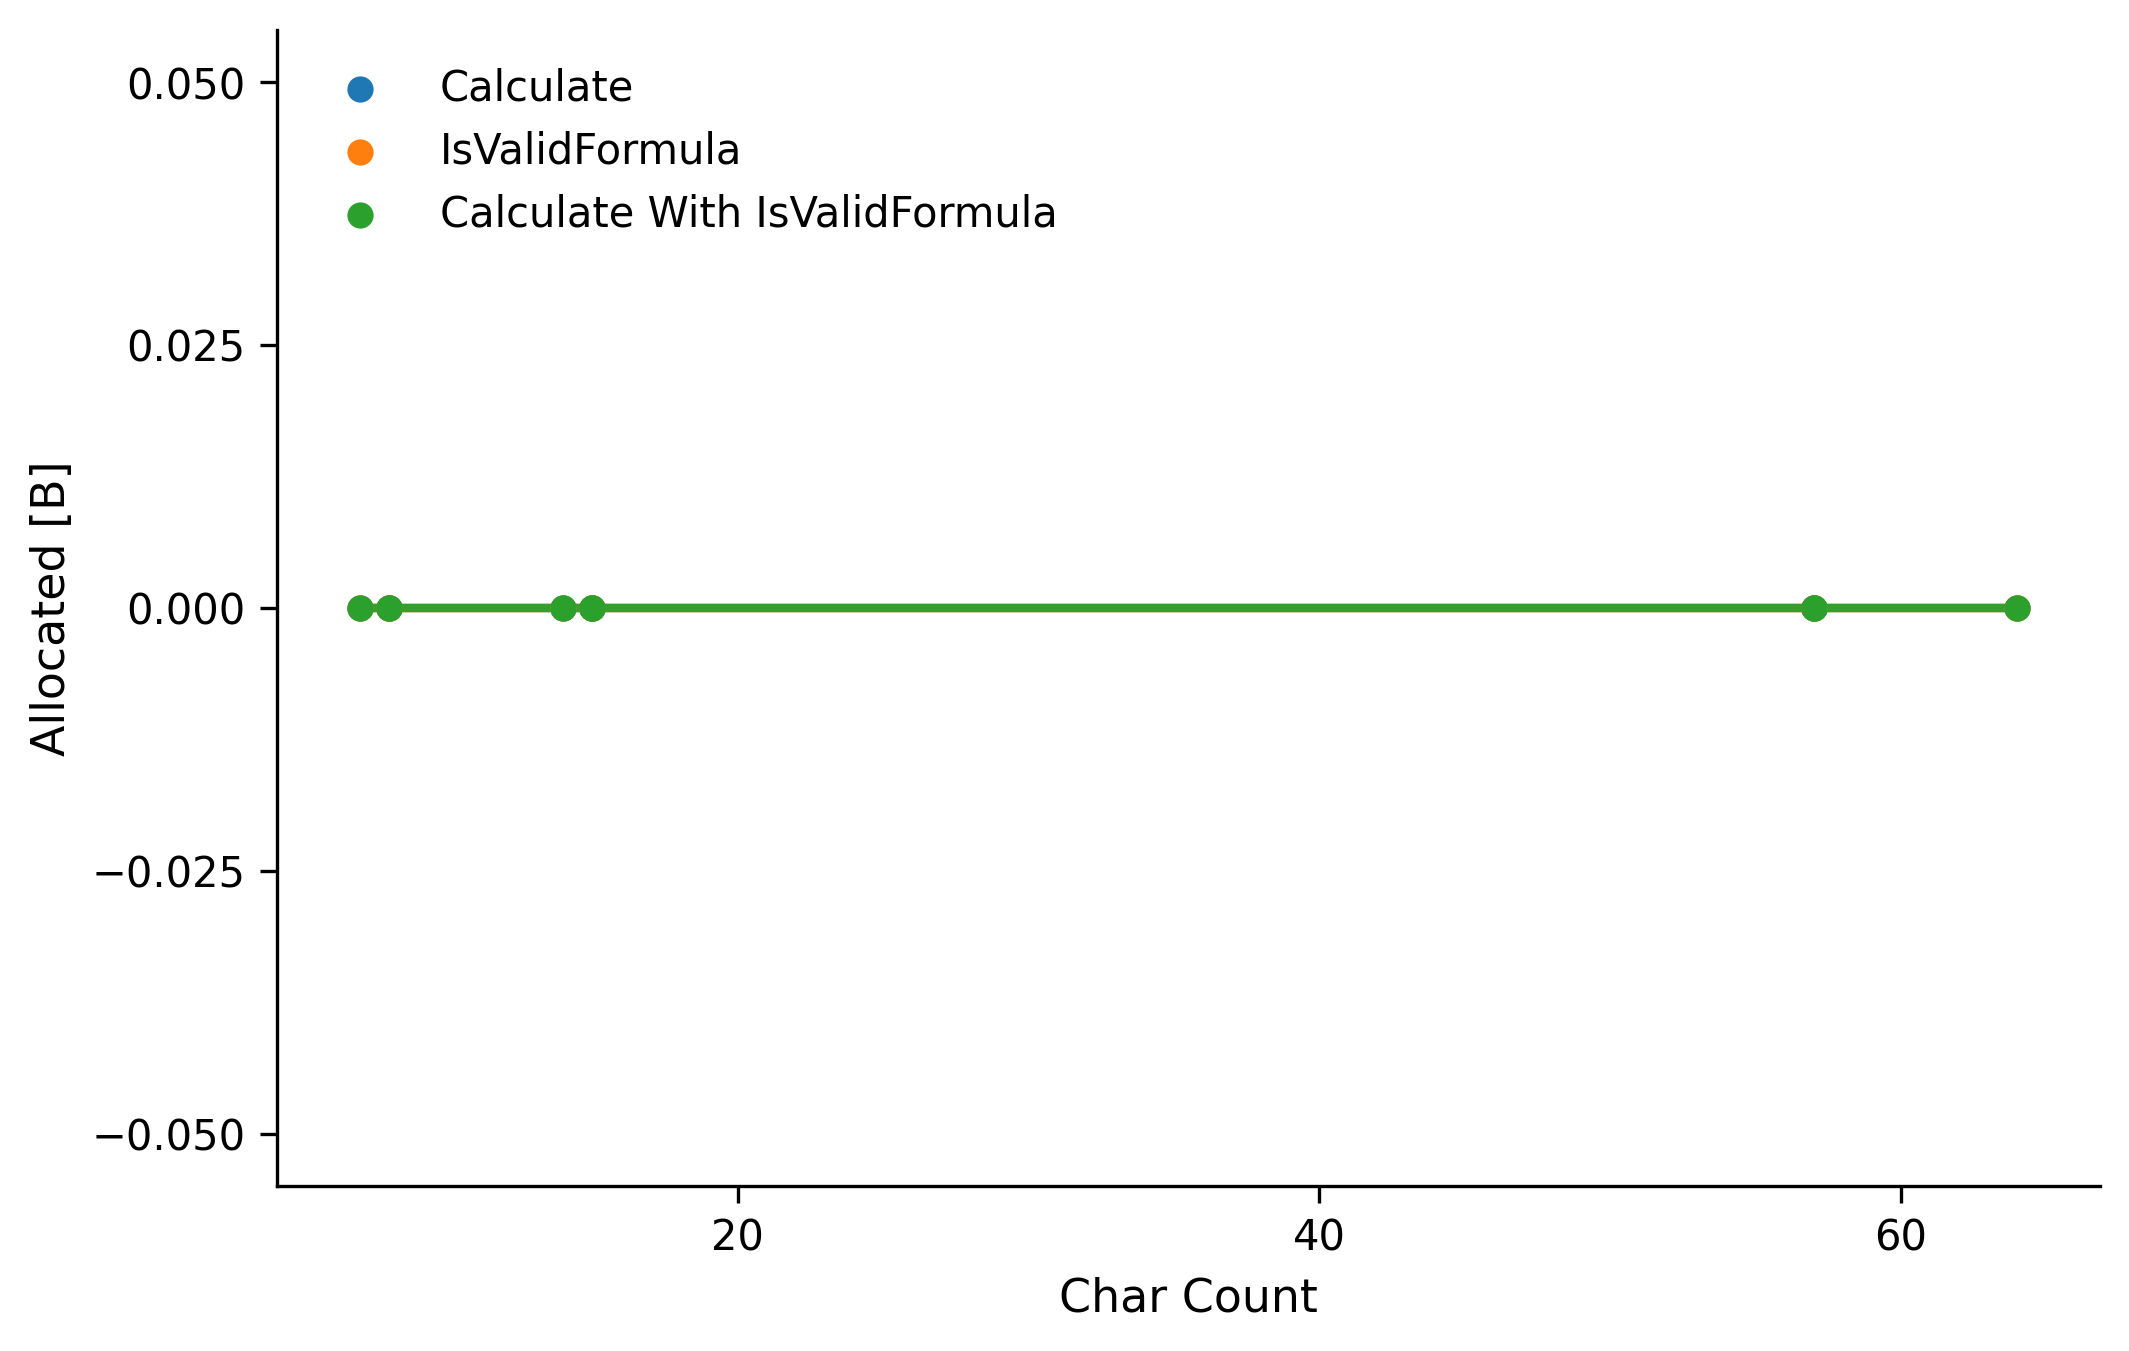
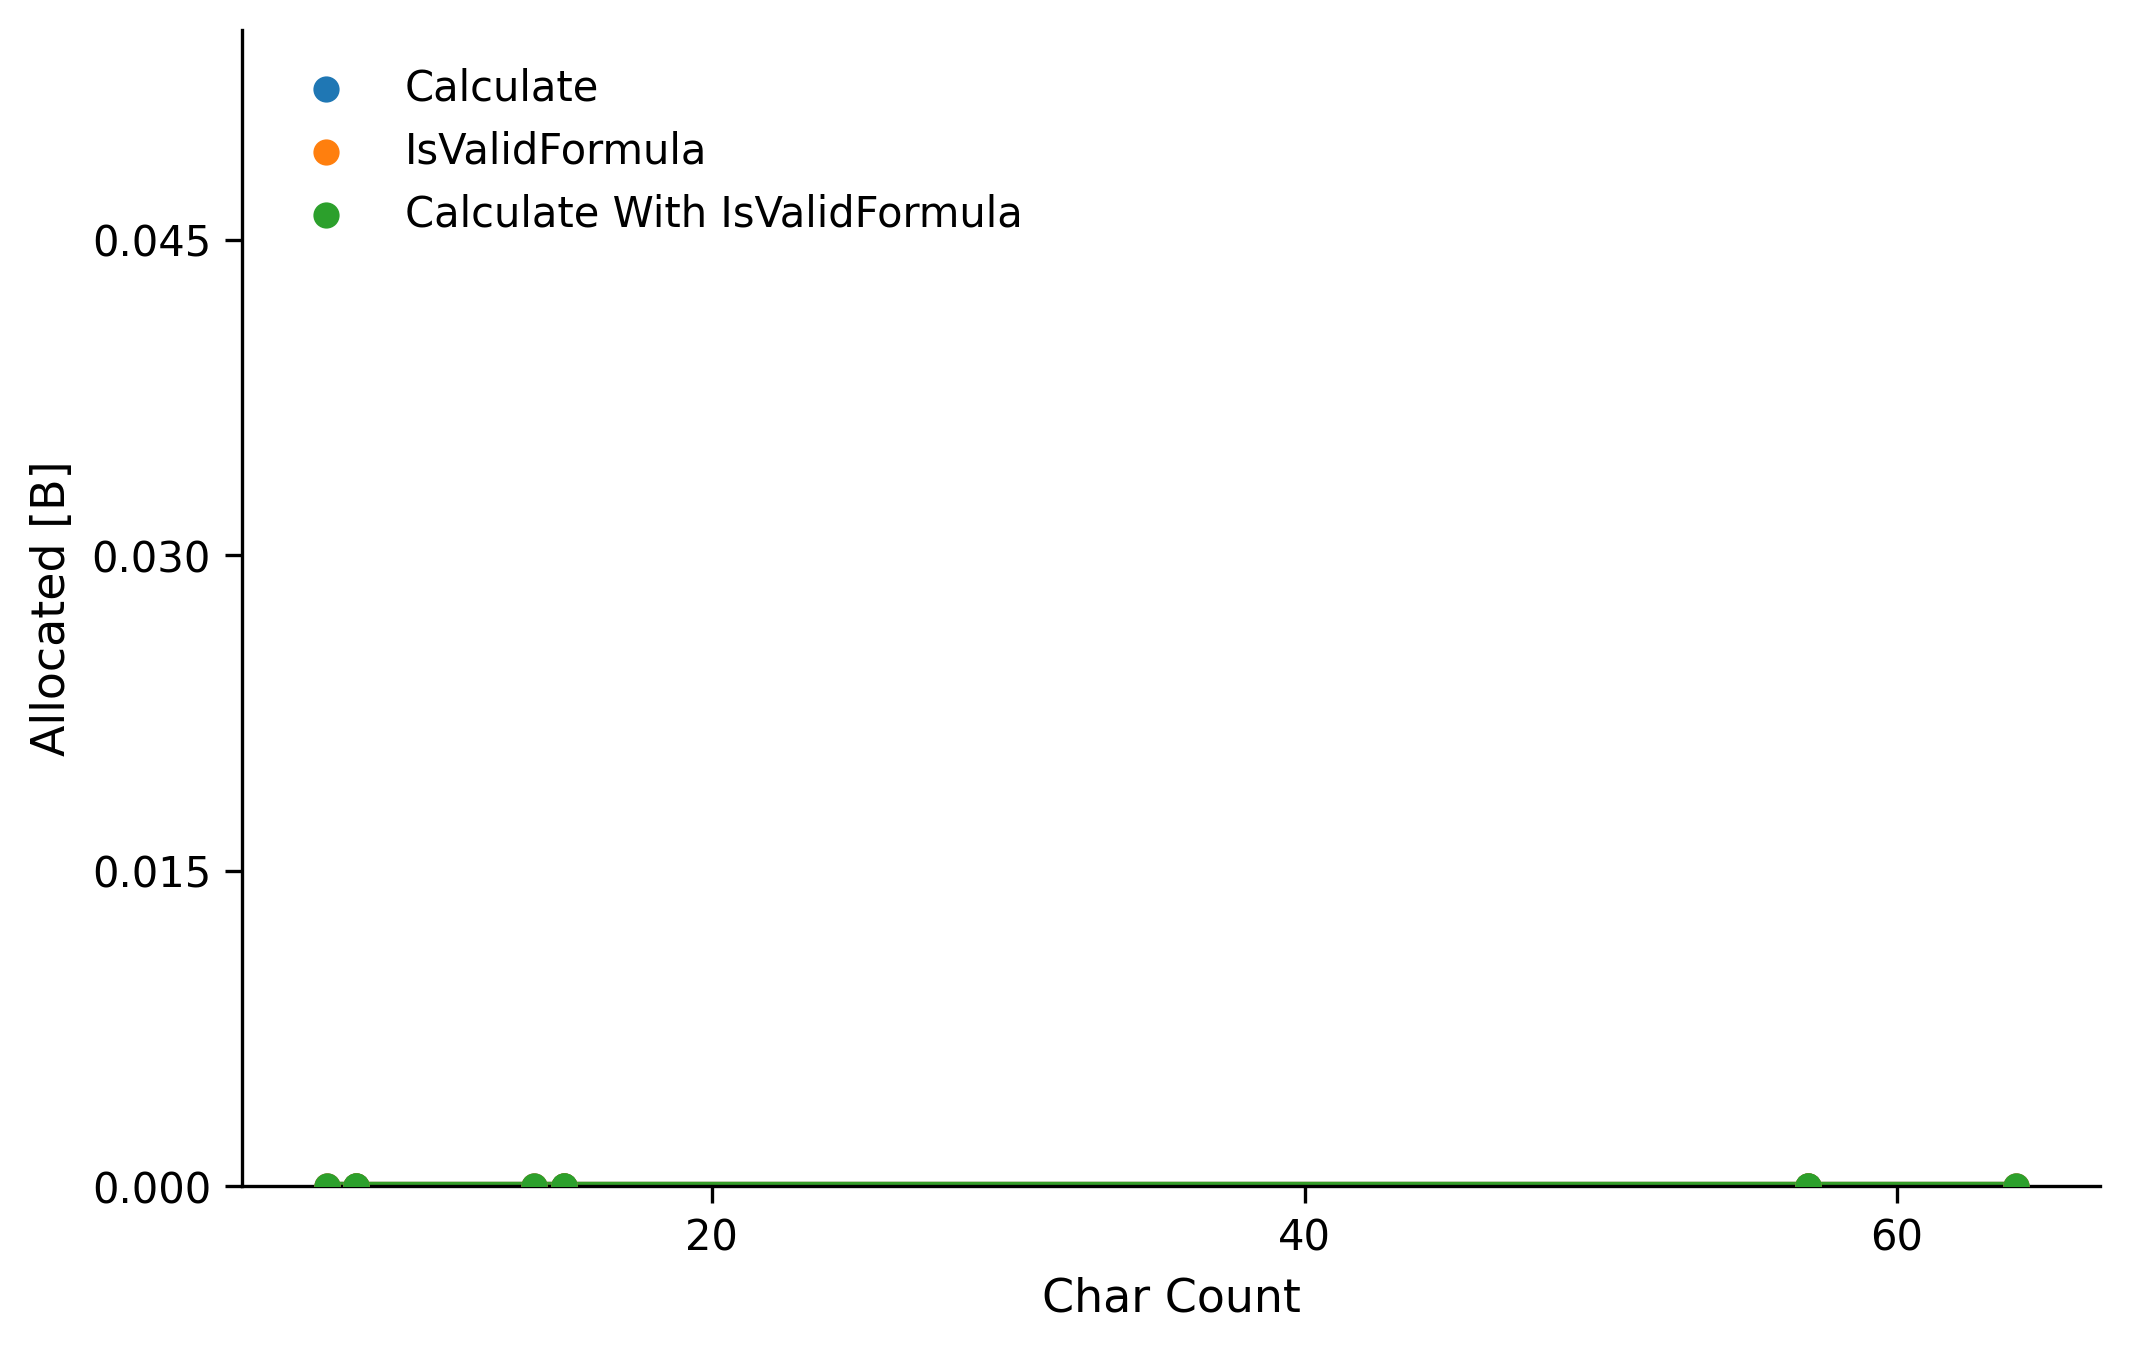
Adjust y-axis limits in benchmark result graph maker to handle small values

diff --git a/PythonTools/BenchmarkResultGraphMaker/benchmark_result_graph_maker.py b/PythonTools/BenchmarkResultGraphMaker/benchmark_result_graph_maker.py
@@ -149,6 +149,16 @@ def plot_metric(
     if use_log_y:
         ax.set_yscale("log")
 
+    # Adjust y-axis limits for 0 or very small values.
+    ymin, ymax = ax.get_ylim()
+
+    if use_log_y:
+        ax.set_ylim(bottom=max(ymin, 1e-15), top=ymax)
+    else:
+        if ymax == ymin:
+            ymax = ymax * 1.1 + 1e-12
+        ax.set_ylim(bottom=0, top=ymax)
+
     # Reduce the number of ticks.
     ax.xaxis.set_major_locator(MaxNLocator(nbins=4, integer=True))
     if not use_log_y:
